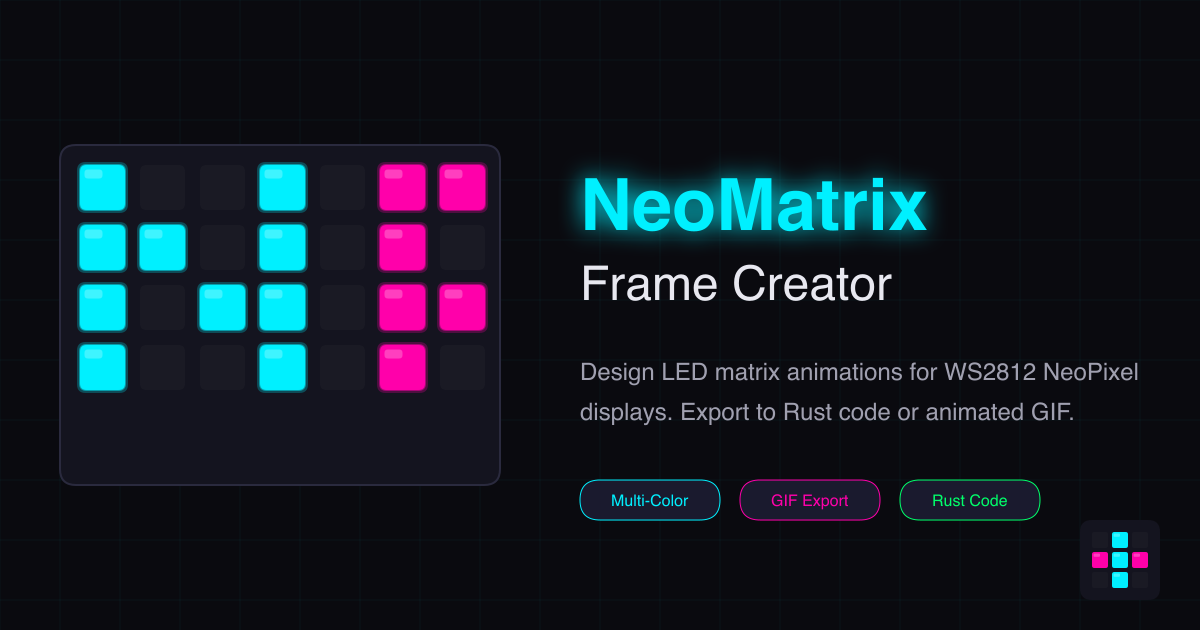
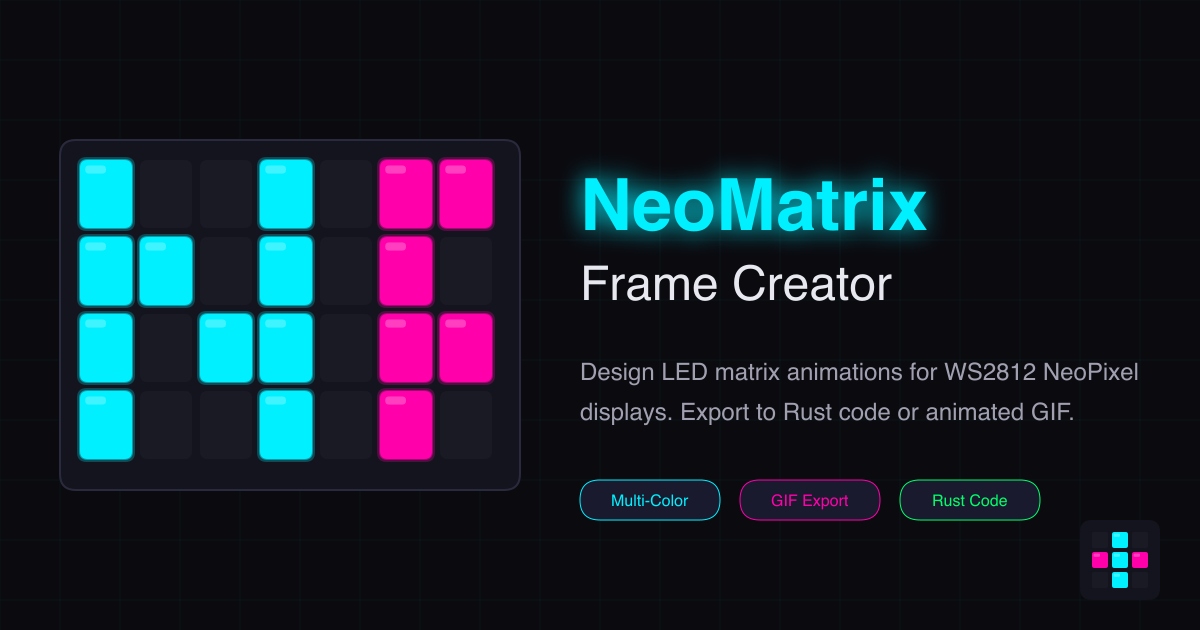
Fix OG image LED grid to fill container properly
- Resize LED cells to 52x68px (rectangular) to better fill the 460x350 container
- Reduce gaps between cells for tighter layout
- Add highlight reflections to lit LEDs in SVG
- Update PNG generator to match new layout

Generated with [Claude Code](https://claude.ai/code)
via [Happy](https://happy.engineering)

Changed region(s): [[0.0617, 0.2111, 0.4317, 0.7841]]

diff --git a/generate-pngs.js b/generate-pngs.js
@@ -54,6 +54,26 @@ function drawLED(ctx, x, y, size, color, glow = true) {
     }
 }
 
+// Draw rectangular LED with glow
+function drawLEDRect(ctx, x, y, w, h, color, glow = true) {
+    const r = Math.min(w, h) * 0.15;
+    if (glow && color !== colors.cell) {
+        // Outer glow
+        ctx.fillStyle = color + '40';
+        drawRoundedRect(ctx, x - 3, y - 3, w + 6, h + 6, r + 2);
+        // Inner glow
+        ctx.fillStyle = color + '80';
+        drawRoundedRect(ctx, x - 1, y - 1, w + 2, h + 2, r + 1);
+    }
+    ctx.fillStyle = color;
+    drawRoundedRect(ctx, x, y, w, h, r);
+    // Highlight
+    if (color !== colors.cell) {
+        ctx.fillStyle = 'rgba(255,255,255,0.25)';
+        drawRoundedRect(ctx, x + w * 0.1, y + h * 0.08, w * 0.4, h * 0.12, r * 0.5);
+    }
+}
+
 function generateOGImage() {
     const canvas = createCanvas(1200, 630);
     const ctx = canvas.getContext('2d');
@@ -79,18 +99,25 @@ function generateOGImage() {
         ctx.stroke();
     }
 
-    // LED Matrix container
+    // LED Matrix container - sized to fit 7x4 grid properly
+    const containerX = 60;
+    const containerY = 140;
+    const containerW = 460;
+    const containerH = 350;
+
     ctx.fillStyle = colors.bgLight;
-    drawRoundedRect(ctx, 60, 145, 440, 340, 16);
+    drawRoundedRect(ctx, containerX, containerY, containerW, containerH, 16);
     ctx.strokeStyle = colors.border;
     ctx.lineWidth = 2;
     ctx.stroke();
 
     // LED pattern spelling "NM" (stylized)
-    const ledSize = 45;
-    const gap = 15;
-    const startX = 80;
-    const startY = 165;
+    // 7 columns x 4 rows, filling the container with padding
+    const padding = 20;
+    const cellW = 52;
+    const cellH = 68;
+    const gapX = 8;  // (460 - 40 - 7*52) / 6 = ~8
+    const gapY = 9;  // (350 - 40 - 4*68) / 3 = ~9
 
     const pattern = [
         [1, 0, 0, 1, 0, 2, 2],
@@ -101,11 +128,11 @@ function generateOGImage() {
 
     for (let row = 0; row < 4; row++) {
         for (let col = 0; col < 7; col++) {
-            const x = startX + col * (ledSize + gap);
-            const y = startY + row * (ledSize + gap);
+            const x = containerX + padding + col * (cellW + gapX);
+            const y = containerY + padding + row * (cellH + gapY);
             const val = pattern[row][col];
             const color = val === 0 ? colors.cell : val === 1 ? colors.cyan : colors.magenta;
-            drawLED(ctx, x, y, ledSize, color);
+            drawLEDRect(ctx, x, y, cellW, cellH, color);
         }
     }
 
